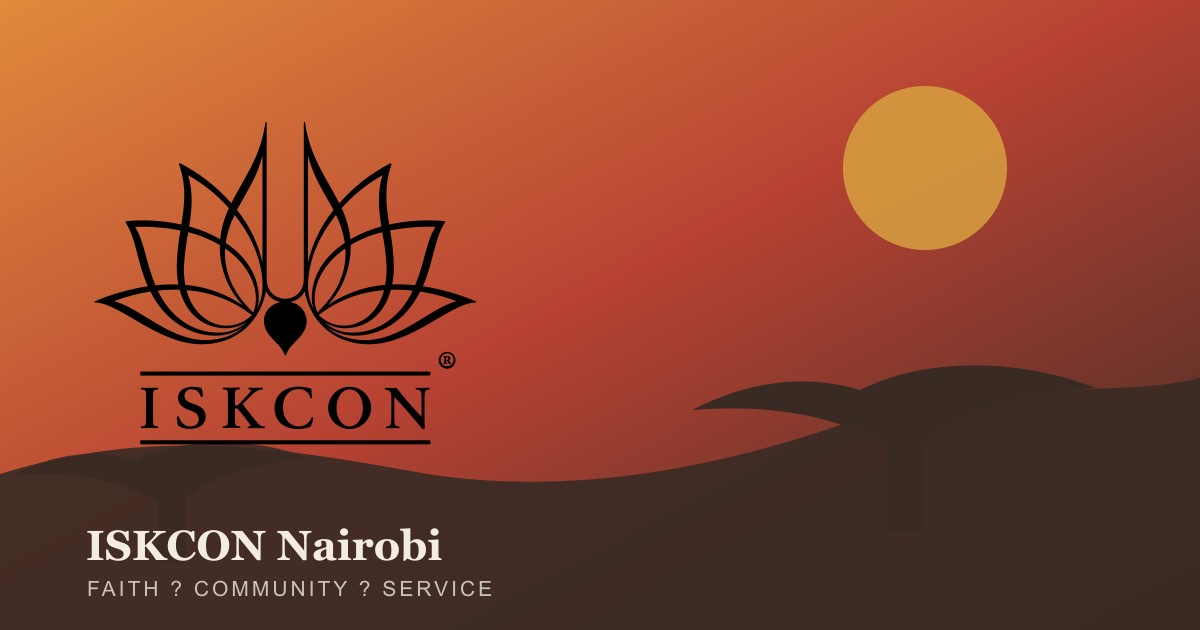
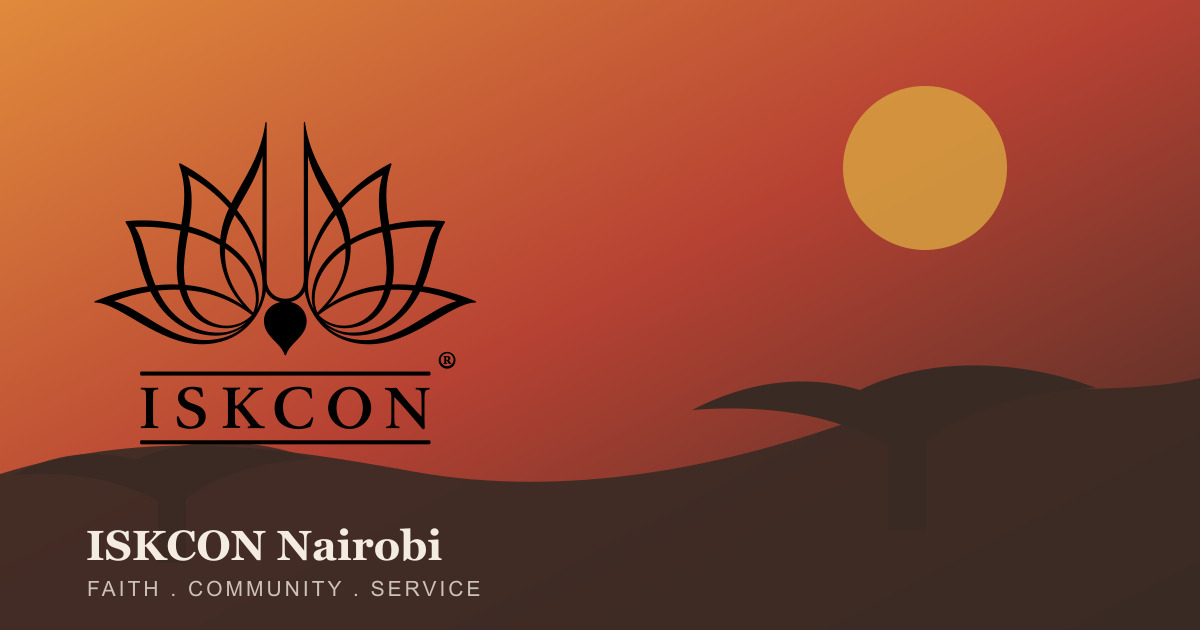
Fix social preview separators

Changed region(s): [[0.1542, 0.9048, 0.4008, 0.9651], [0.2775, 0.5127, 0.3083, 0.5429], [0.185, 0.5127, 0.2158, 0.5429]]

diff --git a/src/app/layout.tsx b/src/app/layout.tsx
@@ -14,7 +14,7 @@ import { templeInfo } from "@/data/site";
 import { safeJsonLd } from "@/lib/security";
 
 const siteUrl = "https://iskconnairobi.esthrema.com";
-const previewImage = "/brand/og-image.jpg";
+const previewImage = "/brand/og-image.jpg?v=20260825";
 const iconVersion = "v=pwa-resilient-2026-08-24";
 const siteTitle = "ISKCON Nairobi | Sri Sri Radha Bankebihari Temple";
 const siteDescription =
